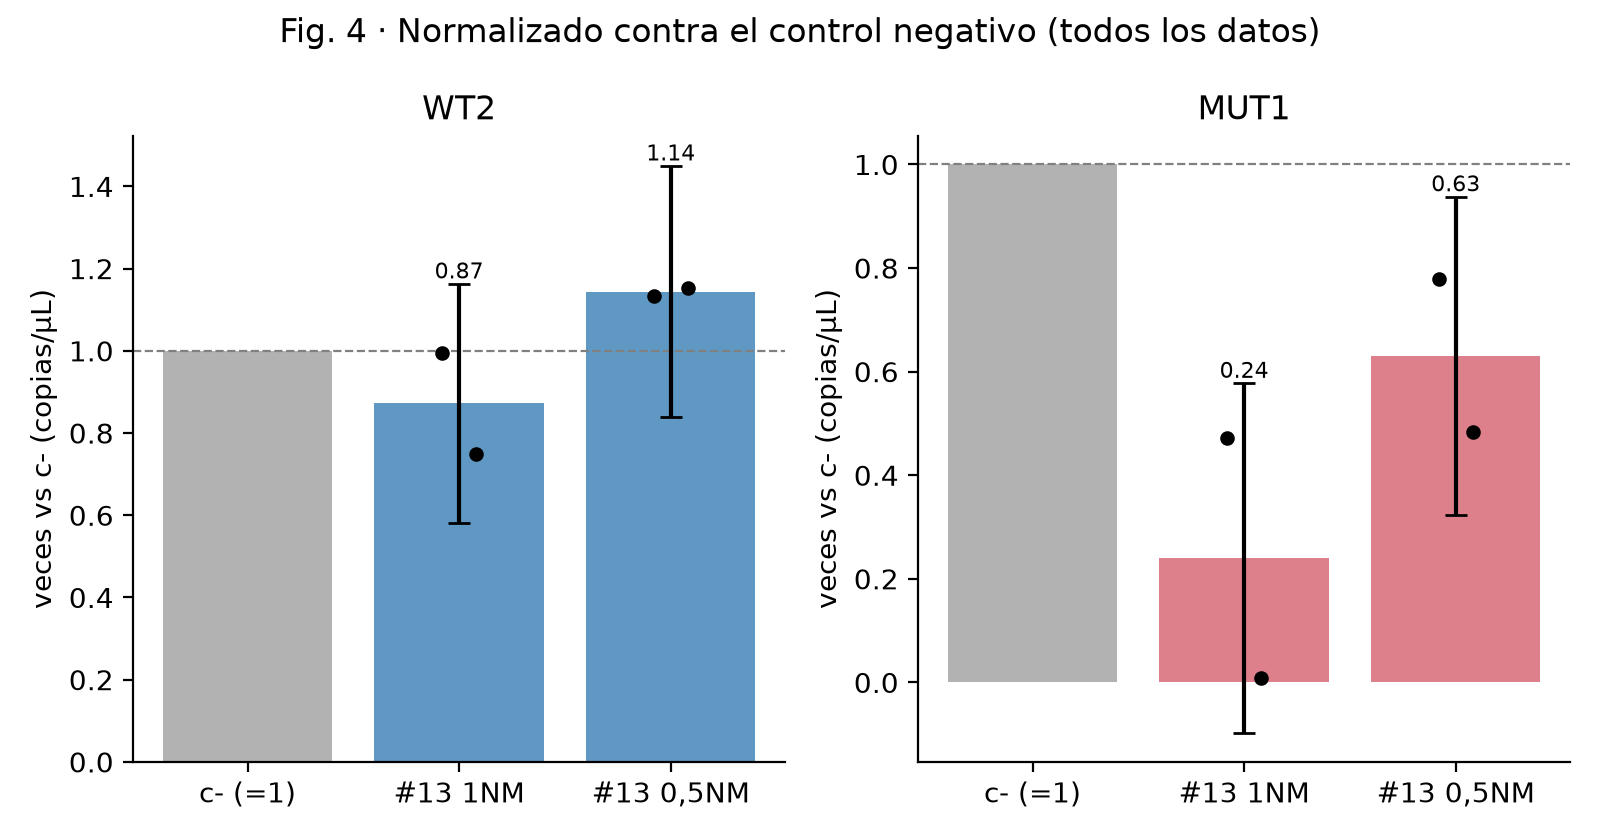
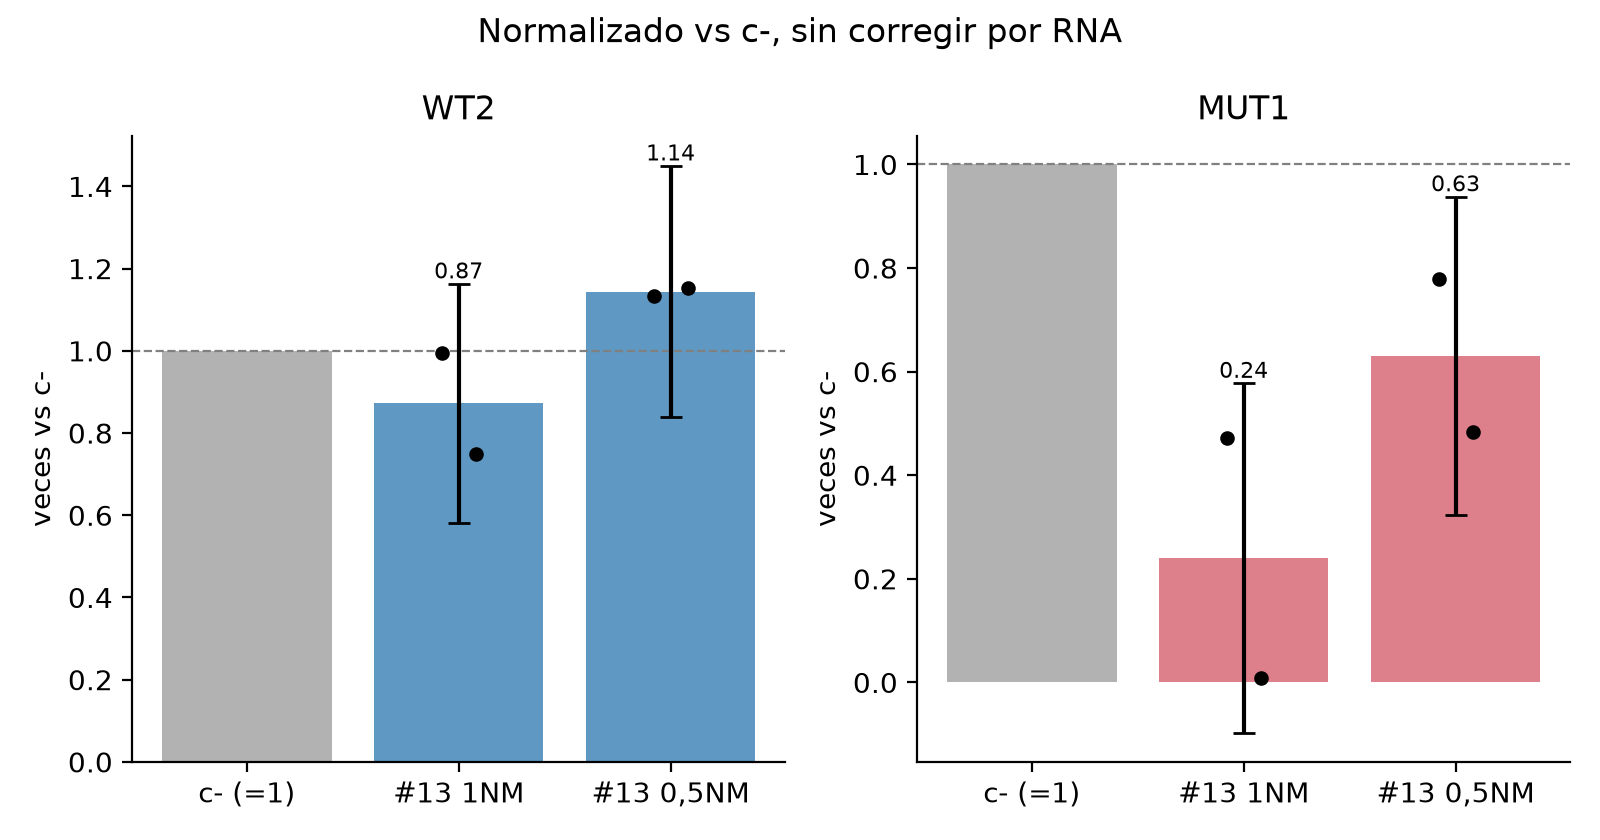
ddPCR #13: corrección por cantidad de RNA (libreta ÷ 2) como análisis adicional
Claude-Session: https://claude.ai/code/session_0155wDXPt23zL2HdRwb5YjmM

diff --git a/analisis/ddpcr_13/analiza_ddpcr.py b/analisis/ddpcr_13/analiza_ddpcr.py
@@ -44,106 +44,90 @@ dom = dom.rename(columns={CONC: "Copias_uL", "Target": "Target_dominante"})
 cols = ["Well", "Muestra", "Genotipo", "Condicion", "Target_dominante", "Dye",
         "Copias_uL", "Conc_otro_target", "Pct_otro", "Accepted Droplets", "Positives"]
 dom = dom[cols].reset_index(drop=True)
+# RNA anotado a mano (libreta), en orden de pocillo; el valor real en pocillo es la MITAD (dilución posterior)
+RNA_LIBRETA = {"A01": 3, "A02": 2.6, "A03": 2.92, "A04": 3.36, "A05": 2.42, "A06": 2.1,
+               "A07": 2.8, "A08": 3.06, "A09": 2.97, "A10": 3.28, "A11": 2.94, "A12": 2.35}
+dom["RNA_uL"] = dom.Well.map(RNA_LIBRETA) / 2
+dom["Copias_por_uL_RNA"] = dom.Copias_uL / dom.RNA_uL
 dom.to_csv(f"{AQUI}/resultados/1_target_dominante_por_pocillo.csv", index=False, float_format="%.4f")
 
-# --- 2. medias de réplicas ------------------------------------------------
-def resumen(d):
-    g = d.groupby(["Genotipo", "Condicion"], sort=False).Copias_uL
+dom["Excluido_sensib"] = dom.Well == "A06"   # A06 = valor atípico (ver ANALISIS.md)
+
+def resumen(d, m):
+    g = d.groupby(["Genotipo", "Condicion"], sort=False)[m]
     r = g.agg(n="count", media="mean", sd=lambda x: x.std(ddof=1) if len(x) > 1 else np.nan,
               minimo="min", maximo="max").reset_index()
     r["pocillos"] = g.apply(lambda x: ",".join(d.loc[x.index, "Well"])).values
     return r
-res_all = resumen(dom)
 
-# A06 es un valor atípico claro (ver ANALISIS.md): se da el análisis con y sin él
-dom["Excluido_sensib"] = dom.Well == "A06"
-res_sin = resumen(dom[~dom.Excluido_sensib])
-res_all.to_csv(f"{AQUI}/resultados/2_medias_replicas.csv", index=False, float_format="%.4f")
-res_sin.to_csv(f"{AQUI}/resultados/2b_medias_replicas_sin_A06.csv", index=False, float_format="%.4f")
-
-# --- 3. normalización contra c- ------------------------------------------
-def normaliza(res, d):
+def normaliza(res, d, m):
     out = []
     for gen in ["WT2", "MUT1"]:
         c = res[(res.Genotipo == gen) & (res.Condicion == "c-")].iloc[0]
         for _, r in res[(res.Genotipo == gen) & (res.Condicion != "c-")].iterrows():
             fold = r.media / c.media
-            # error relativo propagado (SD/media de cada término, cociente de medias)
             rel = np.sqrt(np.nansum([(r.sd / r.media) ** 2, (c.sd / c.media) ** 2]))
-            # ratio individual de cada réplica vs media del control
-            ind = d[(d.Genotipo == gen) & (d.Condicion == r.Condicion)].Copias_uL / c.media
+            ind = d[(d.Genotipo == gen) & (d.Condicion == r.Condicion)][m] / c.media
             out.append(dict(Genotipo=gen, Condicion=r.Condicion, media_muestra=r.media,
                             media_control=c.media, n_muestra=r.n, n_control=c.n,
                             fold_vs_control=fold, SD_propagada=fold * rel,
                             ratios_replicas=";".join(f"{x:.3f}" for x in ind)))
     return pd.DataFrame(out)
-nor_all = normaliza(res_all, dom)
-nor_sin = normaliza(res_sin, dom[~dom.Excluido_sensib])
-nor_all.to_csv(f"{AQUI}/resultados/3_normalizado_vs_control.csv", index=False, float_format="%.4f")
-nor_sin.to_csv(f"{AQUI}/resultados/3b_normalizado_vs_control_sin_A06.csv", index=False, float_format="%.4f")
 
-# --- gráficas --------------------------------------------------------------
 COL = {"WT2": "#1b6ca8", "MUT1": "#d1495b"}
 ORD = ["c-", "#13 0,5NM", "#13 1NM"]
 plt.rcParams.update({"font.size": 10, "axes.spines.top": False, "axes.spines.right": False})
 
-# Fig 1: ambos targets por pocillo
-raw = pd.read_excel(XLSX).rename(columns={"Sample description 1": "Muestra"})
-raw = raw[raw.Muestra.notna() & (raw.Muestra.astype(str).str.strip() != "")]
-pw = raw.pivot(index="Well", columns="Target", values=CONC)
-nom = raw.drop_duplicates("Well").set_index("Well").Muestra
-fig, ax = plt.subplots(figsize=(10, 4.5))
-x = np.arange(len(pw)); w = .4
-ax.bar(x - w/2, pw[1], w, label="Target 1 (FAM)", color="#e0a030")
-ax.bar(x + w/2, pw[2], w, label="Target 2 (VIC)", color="#4a9b6e")
-ax.set_xticks(x); ax.set_xticklabels([f"{i}\n{nom[i]}" for i in pw.index], rotation=60, ha="right", fontsize=7)
-ax.set_ylabel("copias/µL"); ax.set_title("Fig. 1 · Los dos targets en cada pocillo (datos crudos)")
-ax.set_yscale("log"); ax.legend(frameon=False)
-fig.tight_layout(); fig.savefig(f"{AQUI}/figuras/fig1_targets_por_pocillo.png", dpi=200); plt.close(fig)
-
-# Fig 2: target dominante por pocillo
-fig, ax = plt.subplots(figsize=(10, 4.5))
-ax.bar(range(len(dom)), dom.Copias_uL, color=[COL[g] for g in dom.Genotipo])
-for i, r in dom.iterrows():
-    ax.text(i, r.Copias_uL, f"T{r.Target_dominante}", ha="center", va="bottom", fontsize=7)
-ax.set_xticks(range(len(dom))); ax.set_xticklabels([f"{r.Well}\n{r.Muestra}" for _, r in dom.iterrows()], rotation=60, ha="right", fontsize=7)
-ax.set_ylabel("copias/µL"); ax.set_title("Fig. 2 · Target con más copias por pocillo (WT2 → T2/VIC; MUT1 → T1/FAM)")
-fig.tight_layout(); fig.savefig(f"{AQUI}/figuras/fig2_target_dominante.png", dpi=200); plt.close(fig)
-
-# Fig 3 y 4: medias con réplicas
-def fig_medias(res, d, titulo, fn, norm=None):
+def fig_medias(d, m, ylab, titulo, fn):
     fig, axs = plt.subplots(1, 2, figsize=(9, 4.2))
     for ax, gen in zip(axs, ["WT2", "MUT1"]):
         for i, c in enumerate(ORD):
-            s = d[(d.Genotipo == gen) & (d.Condicion == c)].Copias_uL
-            if s.empty: continue
-            ax.bar(i, s.mean(), color=COL[gen], alpha=.55, yerr=s.std(ddof=1) if len(s) > 1 else None, capsize=4)
-            ax.scatter([i]*len(s) + np.linspace(-.08, .08, len(s)), s, color="k", s=18, zorder=3)
-            for (_, r), xx in zip(d[(d.Genotipo == gen) & (d.Condicion == c)].iterrows(), [i - .08, i + .08]):
-                ax.annotate(r.Well, (xx, r.Copias_uL), fontsize=6, xytext=(3, 3), textcoords="offset points")
+            sub = d[(d.Genotipo == gen) & (d.Condicion == c)]
+            s_ = sub[m]
+            if s_.empty: continue
+            ax.bar(i, s_.mean(), color=COL[gen], alpha=.55, yerr=s_.std(ddof=1) if len(s_) > 1 else None, capsize=4)
+            xs = i + np.linspace(-.08, .08, len(s_))
+            ax.scatter(xs, s_, color="k", s=18, zorder=3)
+            for (_, r), xx in zip(sub.iterrows(), xs):
+                ax.annotate(r.Well, (xx, r[m]), fontsize=6, xytext=(3, 3), textcoords="offset points")
         ax.set_xticks(range(3)); ax.set_xticklabels(ORD)
-        ax.set_title(f"{gen}  (target {'T2/VIC' if gen=='WT2' else 'T1/FAM'})"); ax.set_ylabel("copias/µL")
+        ax.set_title(f"{gen}  (target {'T2/VIC' if gen=='WT2' else 'T1/FAM'})"); ax.set_ylabel(ylab)
     fig.suptitle(titulo); fig.tight_layout(); fig.savefig(f"{AQUI}/figuras/{fn}", dpi=200); plt.close(fig)
-fig_medias(res_all, dom, "Fig. 3 · Media ± SD de réplicas (puntos = pocillos), todos los datos", "fig3_medias_replicas.png")
-fig_medias(res_sin, dom[~dom.Excluido_sensib], "Fig. 3b · Igual, sin A06 (atípico)", "fig3b_medias_replicas_sin_A06.png")
 
-# Fig 4: normalizado
-def fig_norm(nor, d, titulo, fn):
+def fig_norm(nor, titulo, fn):
     fig, axs = plt.subplots(1, 2, figsize=(8, 4.2))
     for ax, gen in zip(axs, ["WT2", "MUT1"]):
-        ax.bar(0, 1, color="grey", alpha=.6)
-        ax.axhline(1, color="grey", ls="--", lw=.8)
+        ax.bar(0, 1, color="grey", alpha=.6); ax.axhline(1, color="grey", ls="--", lw=.8)
         sub = nor[nor.Genotipo == gen]
         for j, (_, r) in enumerate(sub.iterrows(), 1):
             ax.bar(j, r.fold_vs_control, color=COL[gen], alpha=.7, yerr=r.SD_propagada, capsize=4)
             ratios = [float(v) for v in r.ratios_replicas.split(";")]
             ax.scatter(j + np.linspace(-.08, .08, len(ratios)), ratios, color="k", s=18, zorder=3)
-            ax.text(j, r.fold_vs_control + (r.SD_propagada if not np.isnan(r.SD_propagada) else 0), f"{r.fold_vs_control:.2f}", ha="center", va="bottom", fontsize=8)
+            top = r.fold_vs_control + (0 if np.isnan(r.SD_propagada) else r.SD_propagada)
+            ax.text(j, top, f"{r.fold_vs_control:.2f}", ha="center", va="bottom", fontsize=8)
         ax.set_xticks(range(len(sub) + 1)); ax.set_xticklabels(["c- (=1)"] + list(sub.Condicion))
-        ax.set_ylabel("veces vs c- (copias/µL)"); ax.set_title(gen)
+        ax.set_ylabel("veces vs c-"); ax.set_title(gen)
     fig.suptitle(titulo); fig.tight_layout(); fig.savefig(f"{AQUI}/figuras/{fn}", dpi=200); plt.close(fig)
-fig_norm(nor_all, dom, "Fig. 4 · Normalizado contra el control negativo (todos los datos)", "fig4_normalizado.png")
-fig_norm(nor_sin, dom[~dom.Excluido_sensib], "Fig. 4b · Normalizado contra c-, sin A06", "fig4b_normalizado_sin_A06.png")
+
+# (metrica, sufijo ficheros, etiqueta eje, nombre en título)
+METRICAS = [("Copias_uL", "", "copias/µL de reacción", "sin corregir por RNA"),
+            ("Copias_por_uL_RNA", "_porRNA", "copias/µL ÷ µL de RNA", "corregido por RNA")]
+RES = {}
+for m, suf, ylab, tit in METRICAS:
+    for sens, d in (("", dom), ("_sin_A06", dom[~dom.Excluido_sensib])):
+        res = resumen(d, m); nor = normaliza(res, d, m)
+        res.to_csv(f"{AQUI}/resultados/2_medias_replicas{suf}{sens}.csv", index=False, float_format="%.4f")
+        nor.to_csv(f"{AQUI}/resultados/3_normalizado_vs_control{suf}{sens}.csv", index=False, float_format="%.4f")
+        fig_medias(d, m, ylab, f"Media ± SD de réplicas, {tit}{' · sin A06' if sens else ''}", f"fig3_medias_replicas{suf}{sens}.png")
+        fig_norm(nor, f"Normalizado vs c-, {tit}{' · sin A06' if sens else ''}", f"fig4_normalizado{suf}{sens}.png")
+        RES[(m, sens)] = (res, nor)
+
+# Fig 6: RNA por pocillo
+fig, ax = plt.subplots(figsize=(8, 3.8))
+ax.bar(range(len(dom)), dom.RNA_uL, color=[COL[g] for g in dom.Genotipo])
+ax.set_xticks(range(len(dom))); ax.set_xticklabels(dom.Well, rotation=60, fontsize=8)
+ax.set_ylabel("µL de RNA en pocillo (libreta ÷ 2)"); ax.set_title("Fig. 6 · RNA usado por pocillo")
+fig.tight_layout(); fig.savefig(f"{AQUI}/figuras/fig6_RNA_por_pocillo.png", dpi=200); plt.close(fig)
 
 # Fig 5: control de calidad (gotas)
 fig, ax = plt.subplots(figsize=(8, 3.8))
@@ -156,6 +140,6 @@ fig.tight_layout(); fig.savefig(f"{AQUI}/figuras/fig5_gotas.png", dpi=200); plt.
 print("Pocillos sin nombre excluidos:", sin_nombre)
 pd.set_option("display.width", 220)
 print(dom.drop(columns="Excluido_sensib").to_string(float_format=lambda v: f"{v:.2f}"))
-print(); print(res_all.to_string(float_format=lambda v: f"{v:.2f}"))
-print(); print(nor_all.drop(columns="ratios_replicas").to_string(float_format=lambda v: f"{v:.3f}"))
-print(); print(nor_sin.drop(columns="ratios_replicas").to_string(float_format=lambda v: f"{v:.3f}"))
+for (m, sens), (res, nor) in RES.items():
+    print(f"\n== {m} {sens or '(todos)'} =="); print(res.to_string(float_format=lambda v: f"{v:.2f}"))
+    print(nor.drop(columns="ratios_replicas").to_string(float_format=lambda v: f"{v:.3f}"))

diff --git a/analisis/ddpcr_13/ANALISIS.md b/analisis/ddpcr_13/ANALISIS.md
@@ -19,7 +19,15 @@ Todo se reproduce con `python3 analiza_ddpcr.py` (genera `resultados/` y `figura
    Se da el cociente («veces vs c-», c- = 1), con SD propagada
    (`fold·√[(SD_m/m)² + (SD_c/c)²]`) y los cocientes de cada réplica individual (puntos en la Fig. 4).
    (`3_normalizado_vs_control.csv`).
-5. **Análisis de sensibilidad sin A06** (ver avisos): ficheros y figuras con sufijo `b` / `_sin_A06`.
+5. **Análisis de sensibilidad sin A06** (ver avisos): ficheros y figuras con sufijo `_sin_A06`.
+6. **Corrección por RNA (añadido después).** De la libreta se anotó el volumen de RNA de cada pocillo
+   (A01–A12: 3 · 2,6 · 2,92 · 3,36 · 2,42 · 2,1 · 2,8 · 3,06 · 2,97 · 3,28 · 2,94 · 2,35 µL; las comillas «″»
+   se resolvieron repitiendo la fila de arriba). Como el RNA se diluyó después, **el valor real en el
+   pocillo es la mitad** (1,5 · 1,3 · 1,46 · 1,68 · 1,21 · 1,05 · 1,4 · 1,53 · 1,485 · 1,64 · 1,47 · 1,175).
+   Se calcula `copias/µL ÷ µL de RNA` por pocillo y se repiten los pasos 3–5 con esa magnitud
+   (ficheros con sufijo `_porRNA`). Los resultados sin corregir se conservan sin cambios.
+   La mitad es un factor constante: **no altera los cocientes vs c-**, solo la escala absoluta.
+   Lo que sí cambia los cocientes es que los pocillos llevan volúmenes de RNA distintos (2,1–3,36 µL).
 
 ## Resultados (copias/µL del target dominante)
 
@@ -44,6 +52,22 @@ Todo se reproduce con `python3 analiza_ddpcr.py` (genera `resultados/` y `figura
 Lectura: en WT2 no hay cambio claro respecto al control (≈ 0,9–1,1). En MUT1 hay descenso en las
 dos dosis (0,63 y 0,24–0,47), pero **con n = 2 y esta dispersión no es concluyente**.
 
+### Corregido por RNA (copias/µL ÷ µL de RNA)
+
+| Genotipo | Condición | Media | SD | Veces vs c- (todos) | Veces vs c- (sin A06) |
+|---|---|---:|---:|---:|---:|
+| WT2 | c- | 977,6 | 194,5 | 1 | 1 |
+| WT2 | #13 0,5NM | 1125,6 | 97,5 | 1,15 ± 0,25 | 1,15 ± 0,25 |
+| WT2 | #13 1NM | 953,1 | 95,7 | 0,97 ± 0,22 | 0,97 ± 0,22 |
+| MUT1 | c- | 2366,1 | 489,4 | 1 | 1 |
+| MUT1 | #13 0,5NM | 1384,9 | 540,0 | 0,59 ± 0,26 | 0,59 ± 0,26 |
+| MUT1 | #13 1NM | 631,4 | 857,1 | 0,27 ± 0,37 | 0,52 (n = 1) |
+
+Efecto de corregir: WT2 queda más cerca de 1 (1NM: 0,87 → 0,97) y las réplicas de WT2 concuerdan mejor
+(SD de 1NM: 269 → 96). MUT1 apenas cambia (0,24 → 0,27 y 0,63 → 0,59): la conclusión es la misma.
+Las unidades son copias/µL de reacción por µL de RNA; no se conoce el volumen de reacción, así que no
+se convierte a copias absolutas por ng de RNA.
+
 ## Avisos / limitaciones
 
 - **A06 (MUT1 #13 1NM) es un valor atípico:** 26,5 copias/µL con 394 positivos de 17 658 gotas,
@@ -54,7 +78,7 @@ dos dosis (0,63 y 0,24–0,47), pero **con n = 2 y esta dispersión no es conclu
   réplicas, y eso se traslada a todos los cocientes. A09 tiene además pocas gotas (9052, < 10 000).
 - **n = 2 por grupo:** las SD son poco fiables y no se hizo ningún test estadístico.
 - La señal cruzada de A08 (43 copias/µL, 2,8 %) y A06 es algo mayor que en el resto; no afecta a la conclusión.
-- No se aplicó corrección por gotas ni por ARN de entrada; se usan las copias/µL que da QuantaSoft.
+- La versión sin corrección usa las copias/µL de QuantaSoft; la `_porRNA` corrige por el RNA de la libreta (no por gotas). Se asume que el orden de la libreta coincide con A01–A12 y que los números son µL de RNA.
 - Las medias son aritméticas de copias/µL; la normalización es cociente de medias (no media de cocientes).
 
 ## Figuras (`figuras/`)
@@ -63,6 +87,7 @@ dos dosis (0,63 y 0,24–0,47), pero **con n = 2 y esta dispersión no es conclu
 |---|---|
 | `fig1_targets_por_pocillo.png` | Los dos targets en cada pocillo (escala log) |
 | `fig2_target_dominante.png` | Target conservado por pocillo |
-| `fig3_medias_replicas.png` / `fig3b_…_sin_A06.png` | Media ± SD con réplicas |
-| `fig4_normalizado.png` / `fig4b_…_sin_A06.png` | Veces vs control negativo |
+| `fig3_medias_replicas[_porRNA][_sin_A06].png` | Media ± SD con réplicas (4 variantes) |
+| `fig4_normalizado[_porRNA][_sin_A06].png` | Veces vs control negativo (4 variantes) |
+| `fig6_RNA_por_pocillo.png` | µL de RNA usados por pocillo (libreta ÷ 2) |
 | `fig5_gotas.png` | Control de calidad: gotas aceptadas por pocillo |
